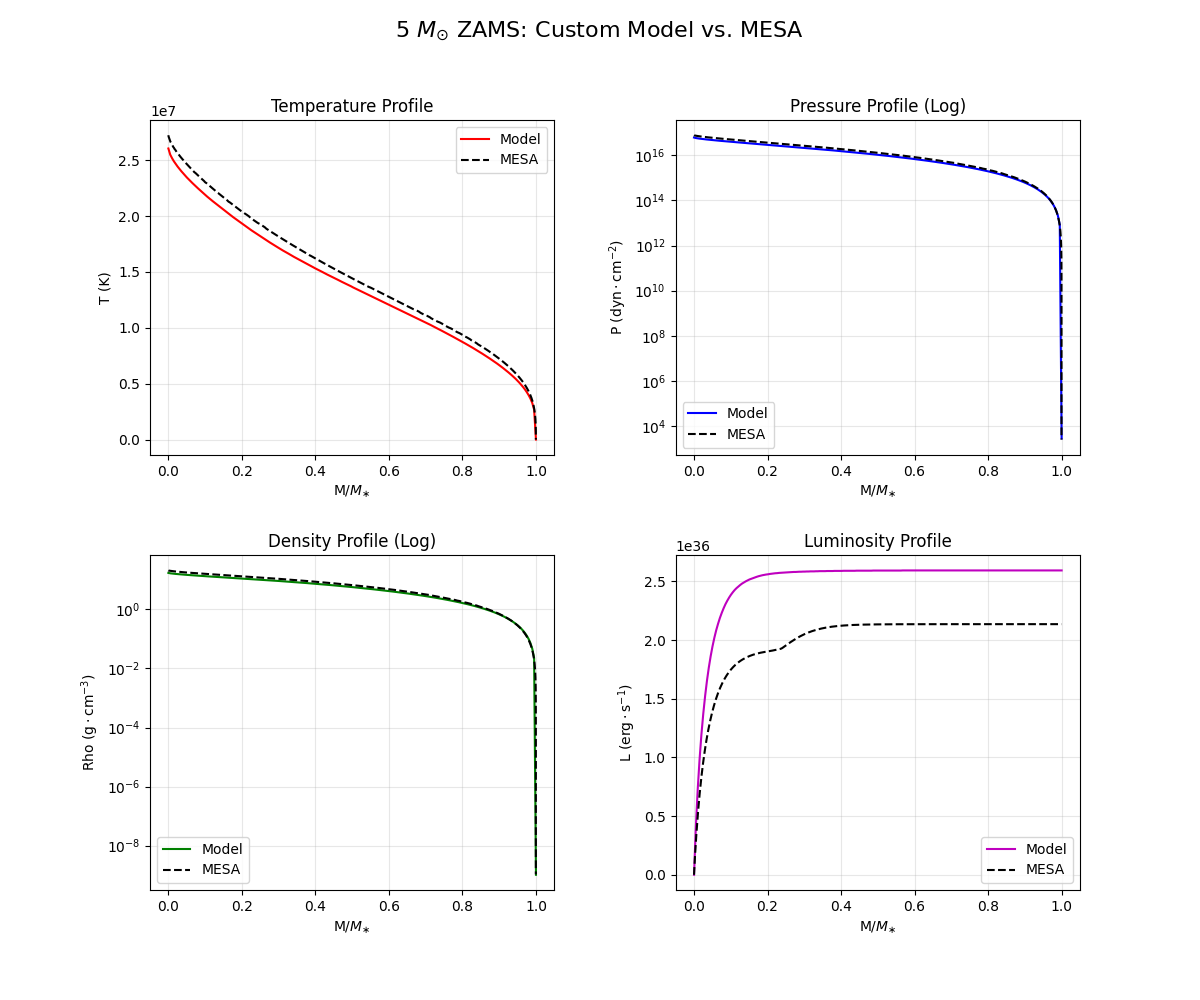
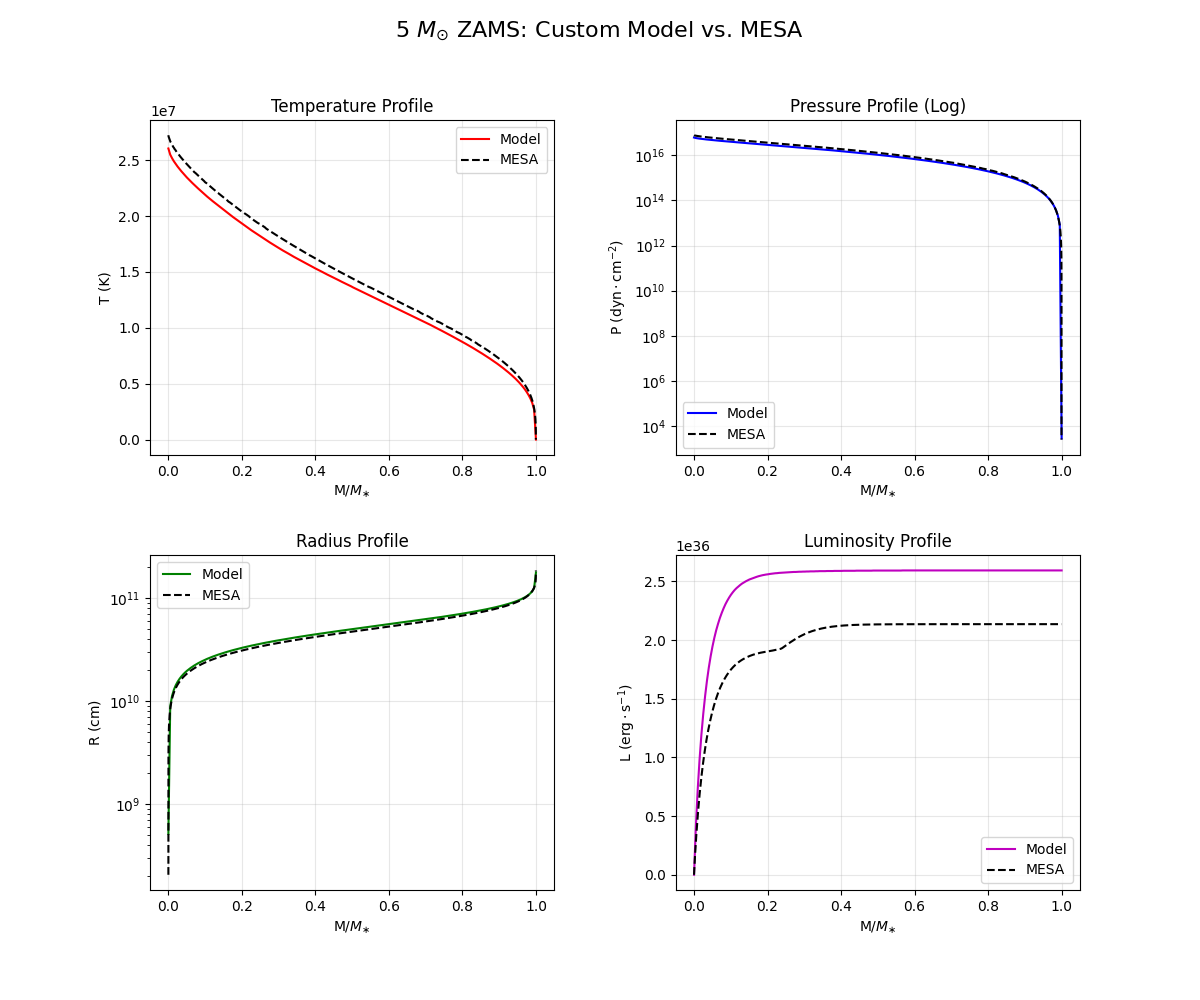
updated comparison code

diff --git a/comparison.py b/comparison.py
@@ -1,6 +1,8 @@
 import pandas as pd
 import numpy as np
+import pickle
 import constants
+from percentage_error import percentage_error
 import matplotlib.pyplot as plt
 from scipy.integrate import cumulative_trapezoid
 
@@ -16,6 +18,9 @@ M_sun = 1.9884e33
 R_sun = 6.957e10
 L_sun = 3.828e33
 
+G = constants.G
+SIGMA = constants.SIGMA
+
 M_star = constants.M_target
 
 # 4. Prepare MESA data
@@ -25,6 +30,7 @@ m_mesa_g = mesa_profile['mass'] * M_sun
 T_mesa = 10**mesa_profile['logT']
 P_mesa = 10**mesa_profile['logP']
 rho_mesa = 10**mesa_profile['logRho']
+radius_mesa = 10**mesa_profile['logR'] * R_sun
 
 # 5. Calculate Luminosity Profile
 # Integrate epsilon over mass to get luminosity
@@ -50,11 +56,11 @@ axs[0, 1].set_title('Pressure Profile (Log)')
 axs[0, 1].set_ylabel(r'$\mathrm{P} \ (\mathrm{dyn} \cdot \mathrm{cm}^{-2})$')
 axs[0, 1].set_yscale('log')
 
-# Density Plot
-axs[1, 0].plot(my_model['m'] / M_star, my_model['rho'], 'g-', label='Model')
-axs[1, 0].plot(m_mesa_g / M_star, rho_mesa, 'k--', label='MESA')
-axs[1, 0].set_title('Density Profile (Log)')
-axs[1, 0].set_ylabel(r'$\mathrm{Rho} \ (\mathrm{g} \cdot \mathrm{cm}^{-3})$')
+# Radius Plot
+axs[1, 0].plot(my_model['m'] / M_star, my_model['r'], 'g-', label='Model')
+axs[1, 0].plot(m_mesa_g / M_star, radius_mesa, 'k--', label='MESA')
+axs[1, 0].set_title('Radius Profile')
+axs[1, 0].set_ylabel(r'$\mathrm{R} \ (\mathrm{cm})$')
 axs[1, 0].set_yscale('log')
 
 # Luminosity Plot
@@ -73,3 +79,44 @@ for ax in axs.flat:
 plt.suptitle(r'5 $M_{\odot}$ ZAMS: Custom Model vs. MESA', fontsize=16)
 plt.savefig('comparison_plot.png')
 plt.show()
+
+# Load the star radius and luminosity from the star properties
+with open('star_properties.pkl', 'rb') as f:
+    data = pickle.load(f)
+
+R_star_model = data['R_star']
+L_star_model = data['L_star']
+
+# Calculate model effective temperature using the Stefan-Boltzmann law
+T_eff_model = (L_star_model / (4 * np.pi * R_star_model**2 * SIGMA))**0.25
+
+# Calculate model surface gravity
+g_surface_model = G * M_star / R_star_model**2
+
+print(f"Model Surface Radius: {R_star_model:.2e} cm")
+print(f"Model Surface Luminosity: {L_star_model:.2e} erg/s")
+print(f"Model Effective Temperature: {T_eff_model:.2e} K")
+print(f"Model Surface Gravity: {g_surface_model:.2e} cm/s^2")
+
+# Compare L, Teff, g and L with MESA values at the surface (last point in the MESA profile)
+
+L_surface_mesa = L_mesa_erg[-1]
+R_surface_mesa = radius_mesa.iloc[-1]
+T_eff_mesa = (L_surface_mesa / (4 * np.pi * R_surface_mesa**2 * SIGMA))**0.25
+g_surface_mesa = G * M_star / R_surface_mesa**2
+
+print(f"MESA Surface Radius: {R_surface_mesa:.2e} cm")
+print(f"MESA Surface Luminosity: {L_surface_mesa:.2e} erg/s")
+print(f"MESA Effective Temperature: {T_eff_mesa:.2e} K")
+print(f"MESA Surface Gravity: {g_surface_mesa:.2e} cm/s^2")
+
+# Calculate percentage errors for each quantity
+R_error = percentage_error(R_star_model, R_surface_mesa)
+L_error = percentage_error(L_star_model, L_surface_mesa)
+T_eff_error = percentage_error(T_eff_model, T_eff_mesa)
+g_error = percentage_error(g_surface_model, g_surface_mesa)
+
+print(f"Radius Percent Error: {R_error:.2e} %")
+print(f"Luminosity Percent Error: {L_error:.2e} %")
+print(f"Effective Temperature Percent Error: {T_eff_error:.2e} %")
+print(f"Surface Gravity Percent Error: {g_error:.2e} %")

diff --git a/percentage_error.py b/percentage_error.py
@@ -1,0 +1,17 @@
+import numpy as np
+
+# Calculate percentage error between model and MESA profiles
+def percentage_error(model, mesa):
+    """
+    Calculate percentage error between model and MESA profiles.
+    
+    Parameters:
+    model (array-like): The values from the model.
+    mesa (array-like): The corresponding values from MESA.
+    
+    Returns:
+    array-like: Percentage error at each point.
+    """
+    error = (np.abs(model - mesa) / np.abs(mesa)) * 100.0
+    
+    return error

diff --git a/table.py b/table.py
@@ -74,3 +74,8 @@ if sol.success:
 
     df.to_csv("stellar_structure_5Msun.csv", index=False)
     print("\nMachine-readable table saved to stellar_structure_5Msun.csv")
+
+save_data = {'R_star': R_star, 'L_star': L_star}
+with open('star_properties.pkl', 'wb') as f:
+    pickle.dump(save_data, f)
+print("Star properties saved to star_properties.pkl")
